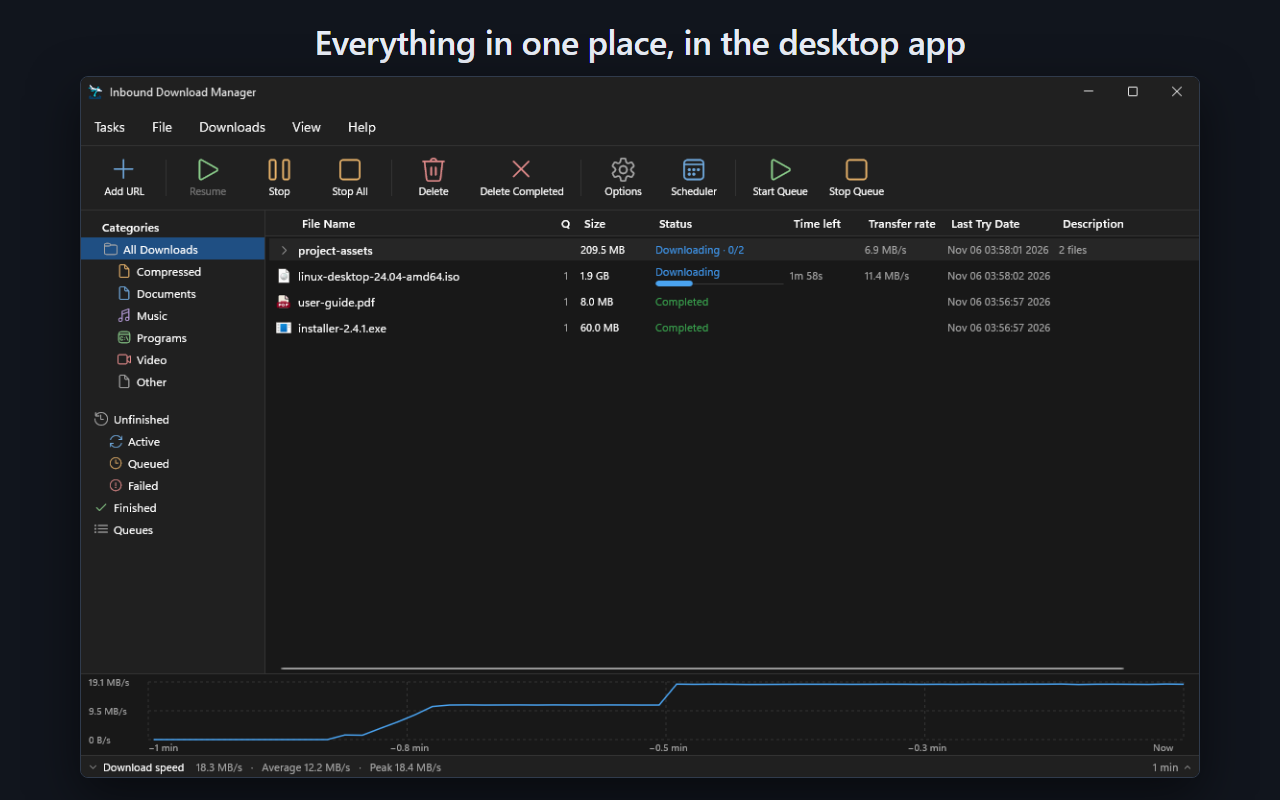
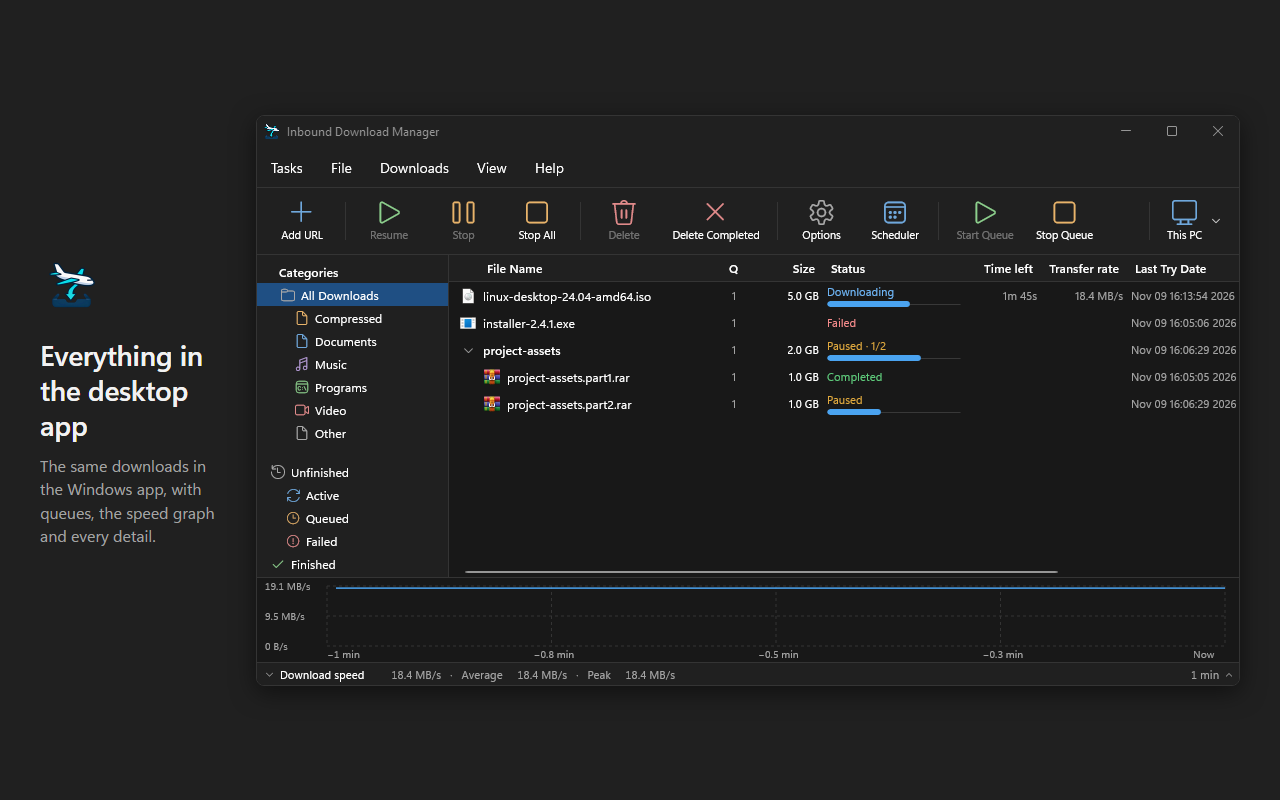
Store screenshot 5: the desktop window with the same four downloads, in the frame of 1 to 4
A test instance of the desktop app in dark mode (its own data folder) with the fixtures' downloads from a local file
server: linux-desktop-24.04-amd64.iso downloading 62 % at 18.4 MB/s (1m 45s), project-assets.part2.rar paused 40 %,
part1 completed, installer-2.4.1.exe failed with HTTP 403. Captured with scripts\ui-capture.ps1 (1:1, status bar
cropped off) and framed by store-screens.mjs (SCREENS_APP_CAPTURE): the caption on the left on --chrome, the window in
the surface frame. 1280x800, 8-bit RGB without alpha.

diff --git a/extensions/chrome/scripts/store-frame.js b/extensions/chrome/scripts/store-frame.js
@@ -1,6 +1,7 @@
 // Lays out one store image (store-frame.html): a caption and the extension page in an iframe, scaled for the popup.
 // Query: kind=shot|promo, caption, sub, page (an extension page with its own query), w, h ("auto": the page's own
-// height), scale, top (promo: the crop's offset), clip (promo: the crop's height). Sets window.frameReady when drawn.
+// height), scale, top (promo: the crop's offset), clip (promo: the crop's height), image (in place of page: a capture shown
+// at 1:1, screenshot 5's desktop window), compact (narrower caption margins for a wide surface). Sets window.frameReady.
 (() => {
   const query = new URLSearchParams(location.search);
   const kind = query.get("kind") ?? "shot";
@@ -8,8 +9,10 @@
   const scale = Number(query.get("scale") ?? "1");
   const fixedHeight = query.get("h") === "auto" ? 0 : Number(query.get("h") ?? "0");
 
-  const iframe = document.createElement("iframe");
-  iframe.src = `/${query.get("page") ?? "popup.html"}`;
+  const image = query.get("image");
+  const iframe = document.createElement(image ? "img" : "iframe");
+  iframe.src = image ? `/${image}` : `/${query.get("page") ?? "popup.html"}`;
+  if (image) iframe.alt = "";
   iframe.width = String(width);
   iframe.title = "Extension page";
   iframe.style.width = `${width}px`;
@@ -36,6 +39,7 @@
     document.body.append(head, surface);
   } else {
     document.documentElement.style.setProperty("--caption-width", query.get("captionWidth") ? `${query.get("captionWidth")}px` : "430px");
+    if (query.get("compact") === "1") document.body.classList.add("compact");
     const caption = document.createElement("div");
     caption.className = "caption";
     const icon = document.createElement("img");
@@ -57,8 +61,8 @@
 
   /** Sizes the iframe and its frame; store-screens.mjs calls it once the page inside is ready. */
   window.fitFrame = () => {
-    const inner = iframe.contentDocument;
-    const contentHeight = fixedHeight || Math.ceil(inner.documentElement.getBoundingClientRect().height);
+    const contentHeight = fixedHeight || (image ? iframe.naturalHeight
+      : Math.ceil(iframe.contentDocument.documentElement.getBoundingClientRect().height));
     iframe.style.height = `${contentHeight}px`;
     iframe.height = String(contentHeight);
     if (kind === "promo") {

diff --git a/extensions/chrome/scripts/store-frame.html b/extensions/chrome/scripts/store-frame.html
@@ -20,6 +20,9 @@
       border-radius: var(--radius-dialog); box-shadow: 0 6px 24px var(--shadow);
     }
     .surface iframe { position: absolute; left: 0; top: 0; border: 0; transform-origin: 0 0; background: var(--surface); }
+    body.compact .caption { padding: 0 24px 0 40px; }
+    body.compact .stage { padding-right: 40px; }
+    .surface img { position: absolute; left: 0; top: 0; display: block; }
     .promo-head { display: flex; align-items: center; gap: 16px; padding: 22px 24px 0; }
     .promo-head h1 { margin: 0 0 4px; font-size: 22px; font-weight: 600; line-height: 1.2; }
     .promo-head p { margin: 0; font-size: 13px; line-height: 1.35; color: var(--muted); }

diff --git a/docs/chrome-store/LISTING.md b/docs/chrome-store/LISTING.md
@@ -59,12 +59,14 @@ Sends browser downloads to the Inbound Download Manager desktop app for Windows,
 2. `images\screenshot-2-ask.png`: "Choose where each download goes" (Ask where to save in the popup, light)
 3. `images\screenshot-3-batch.png`: "Download all links on a page" (Add links, dark)
 4. `images\screenshot-4-options.png`: "Your rules, your folders" (Options > General, light)
-5. `images\screenshot-5-app.png`: the desktop window (a capture of the real app)
+5. `images\screenshot-5-app.png`: "Everything in the desktop app" (the desktop window with the same four downloads, dark)
 
 Images 1 to 4 and the promo tile are made by `extensions\chrome\scripts\store-screens.mjs` (`npm run screens` in
 `extensions\chrome`, from Bash or a normal terminal) from the real extension pages and invented data
-(`extensions\chrome\tests\fixtures\screens-data.json`); two runs give byte-identical files. Image 5 is not made by the
-script: it is a capture of the desktop window on a test instance (`scripts\ui-capture.ps1`).
+(`extensions\chrome\tests\fixtures\screens-data.json`); two runs give byte-identical files. Image 5 frames, in the same
+style, a capture of the desktop window: a test instance in dark mode with the fixtures' four downloads from a local file
+server (invented names and sizes; the .rar icons are this PC's own file-type icons), taken with `scripts\ui-capture.ps1`
+with the window's status bar cropped off, then `SCREENS_APP_CAPTURE=<that PNG> SCREENS_ONLY=screenshot-5 npm run screens`.
 
 **Small promo tile:** `images\promo-small-440x280.png`. The marquee image is optional and not included.
 
